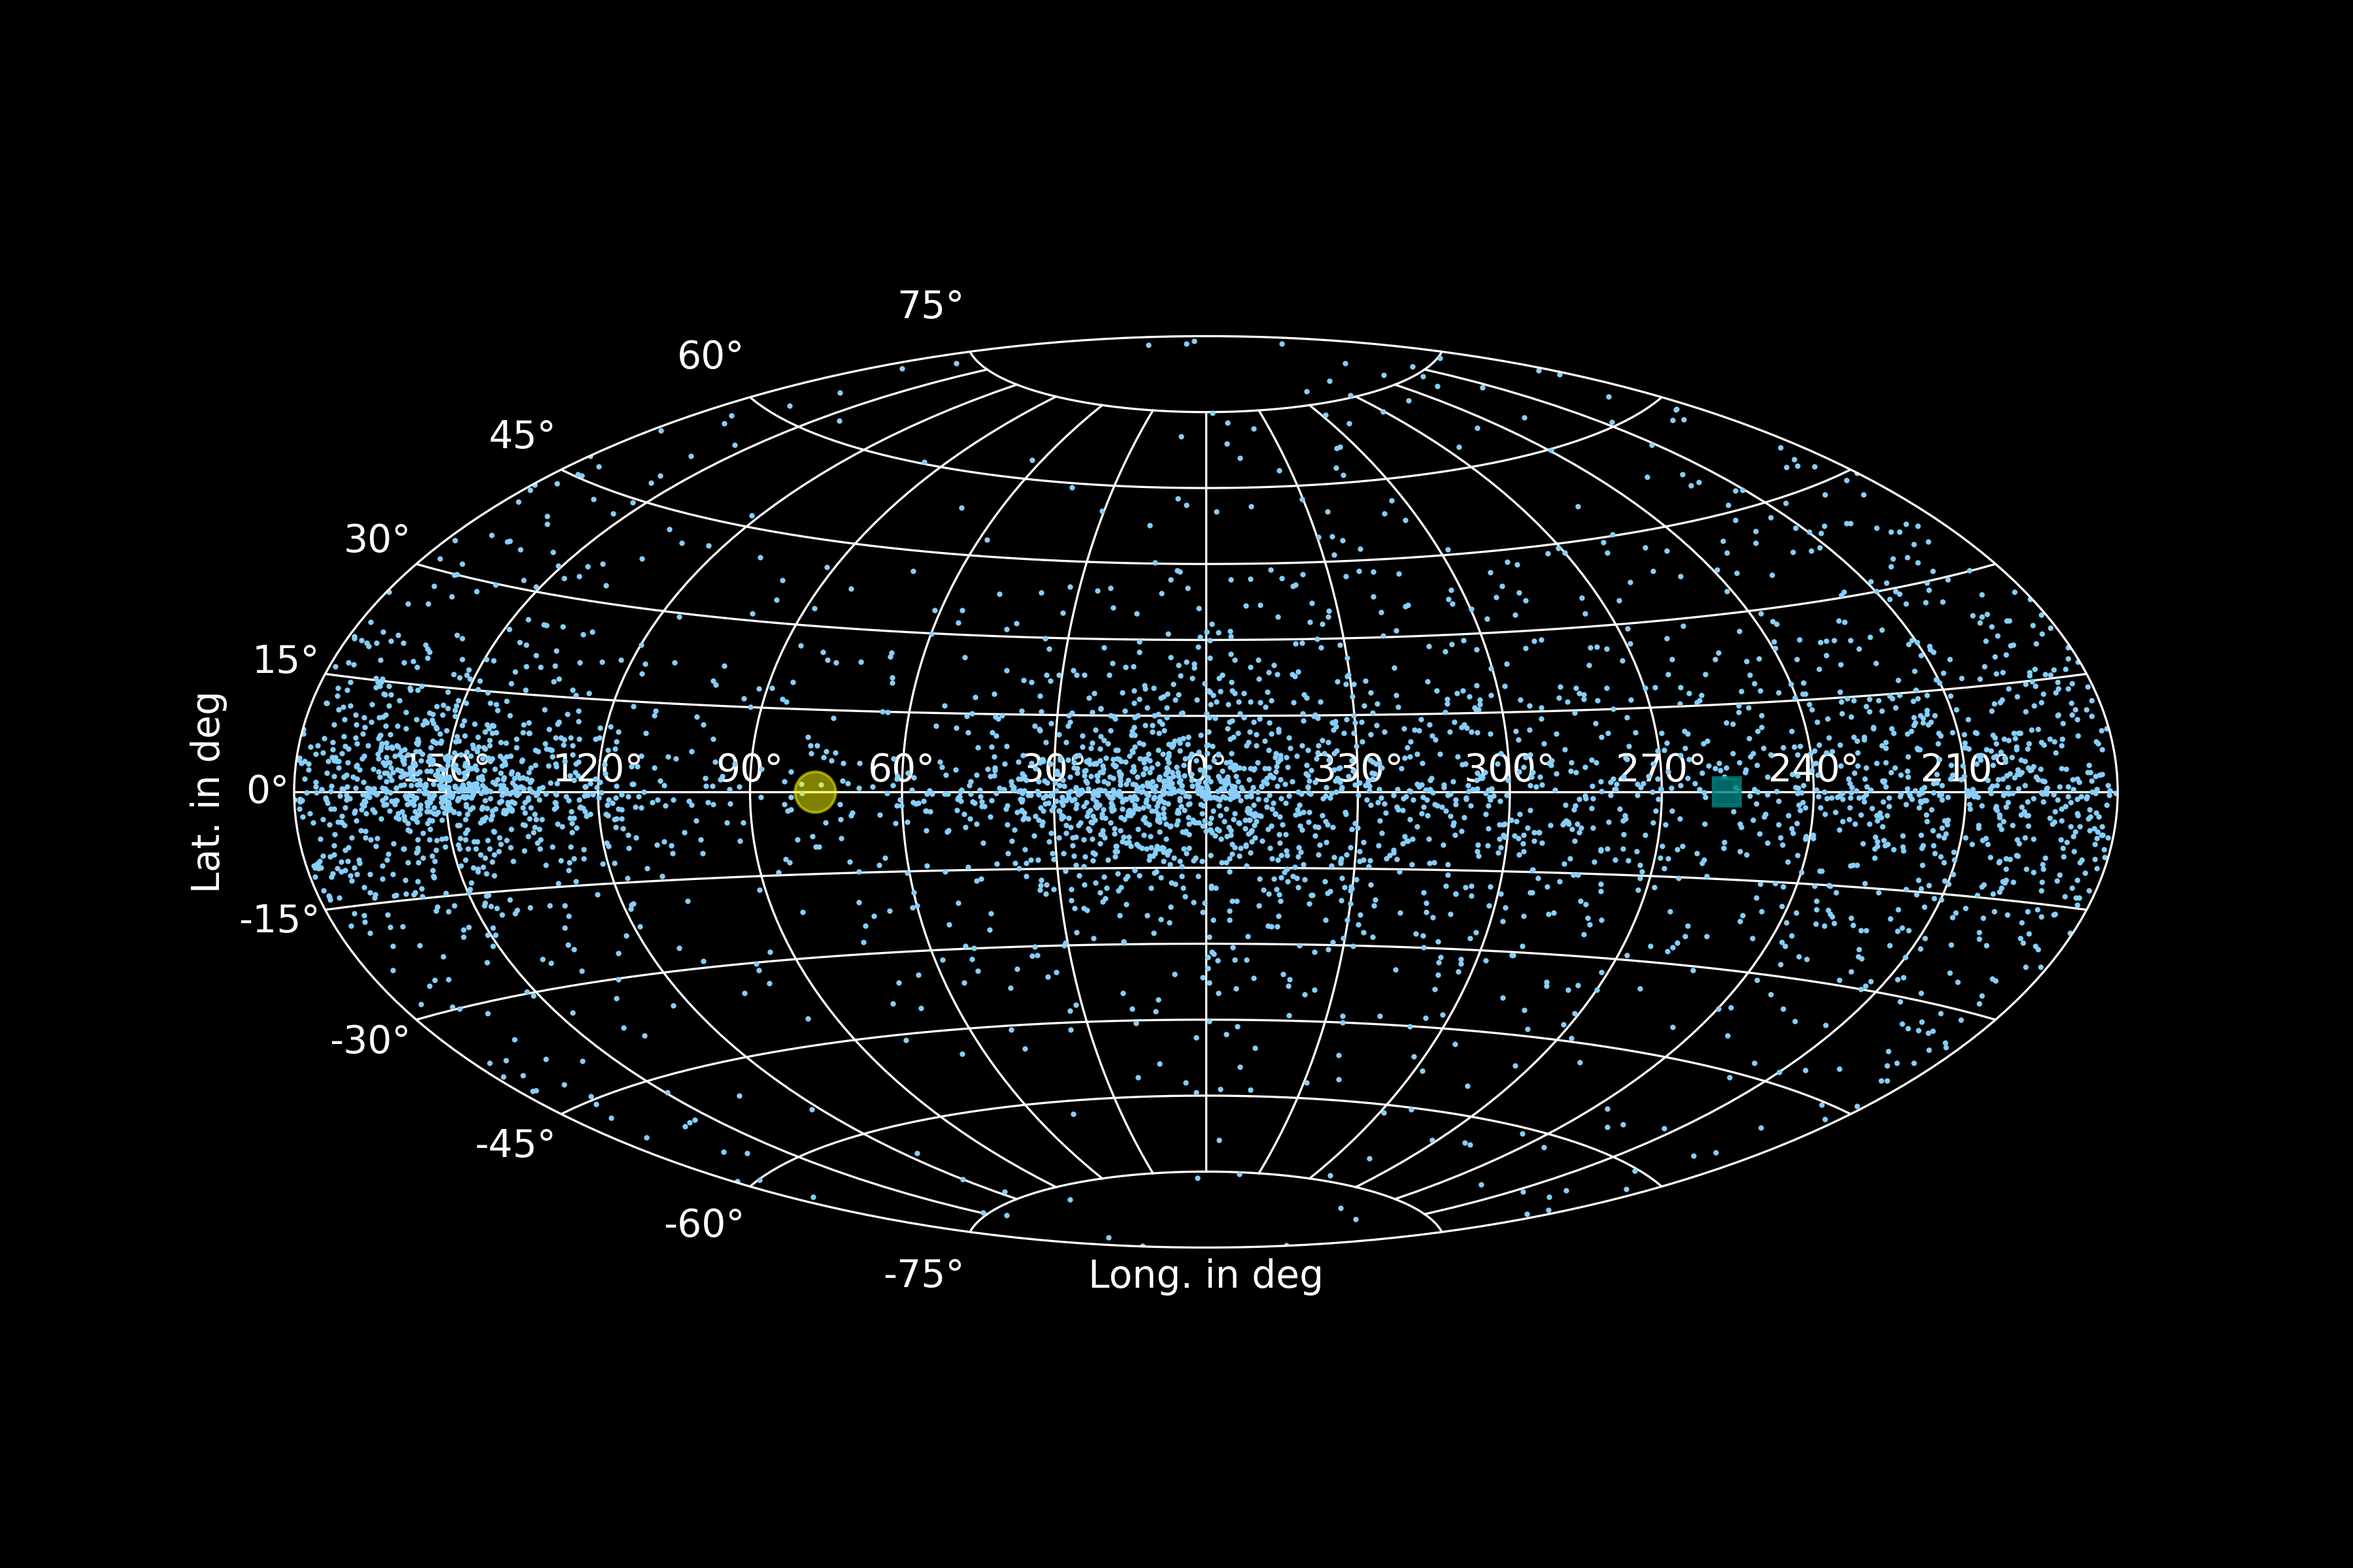
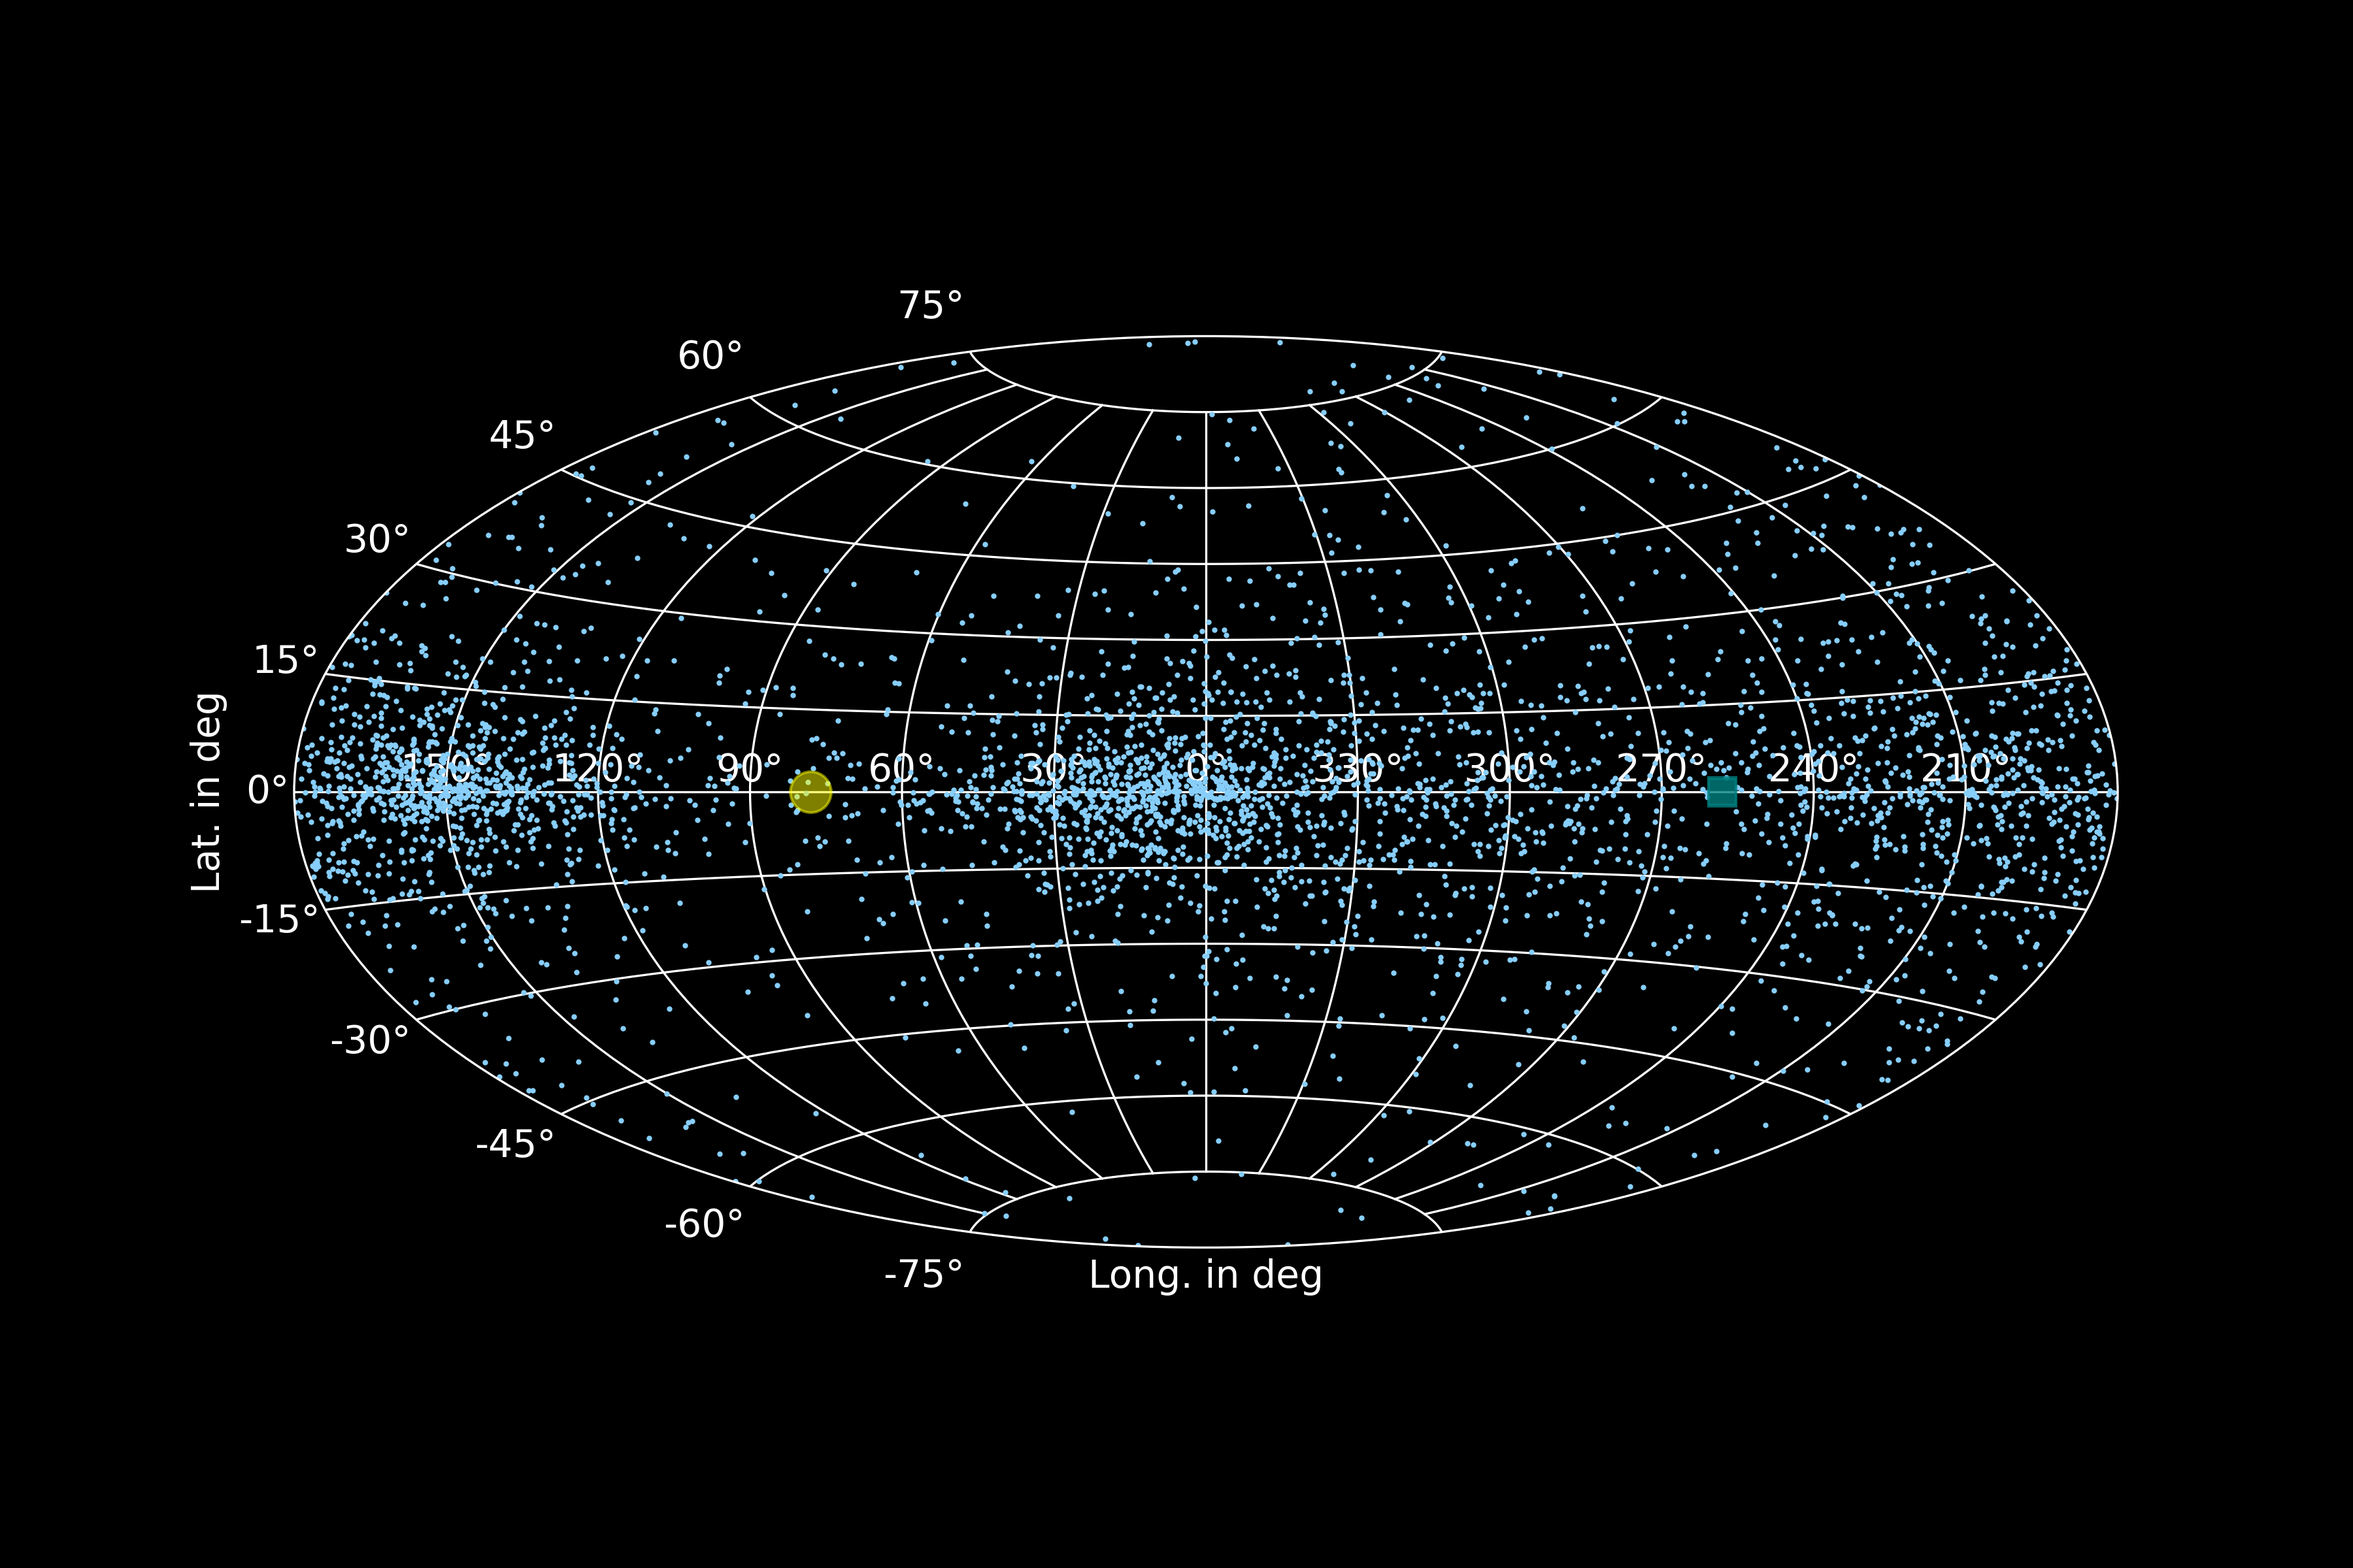
NEOs detection simulation p2

Changed region(s): [[0.1244, 0.375, 0.9022, 0.625], [0.7467, 0.5625, 0.7778, 0.5938]]

diff --git a/11_detection_simulation_analysis.py b/11_detection_simulation_analysis.py
@@ -1,0 +1,171 @@
+# Standard libraries
+import datetime
+import math
+import pathlib
+import sqlite3
+import sys
+
+# Installed libraries
+from matplotlib import pyplot as plt
+import numpy as np
+import pandas as pd
+import spiceypy
+import tqdm
+
+# Auxiliary module that contains the apparent magnitude
+from auxiliary import photometry
+
+# Load the simulation results
+detected_neo_df = pd.read_parquet("results/simulation/UTC2010-01-01_OppDist15.0_MagDetec22.0_StepSize24.0_HourObs21900.0.parquet")
+undetected_neo_df = pd.read_parquet("results/simulation/UNDETECTED_UTC2010-01-01_OppDist15.0_MagDetec22.0_StepSize24.0_HourObs21900.0.parquet")
+
+# Convert the detection time strings to a datetime object
+detected_neo_df.loc[:, "utc_of_detection"] = detected_neo_df["utc_of_detection"].str[:10]
+detected_neo_df.loc[:, "utc_of_detection"] = \
+    detected_neo_df["utc_of_detection"].apply(lambda x: datetime.datetime.strptime(x, "%Y-%m-%d"))
+
+# Compute the detection day (w.r.t. the initial observation datetime)
+detected_neo_df.loc[:, "delta_day_wrt_init"] = \
+    detected_neo_df["utc_of_detection"].apply(lambda x: (x - detected_neo_df["utc_of_detection"].iloc[0]).days)
+
+# Let's set a dark background
+plt.style.use('dark_background')
+
+# Set a default font size for better readability
+plt.rcParams.update({'font.size': 14})
+
+# A cumulative plot that shows how many NEOs we have been detected in our opposition area over
+# time
+fig, ax = plt.subplots(figsize=(12, 8))
+
+# Cumulative histogram in 30 days bins
+ax.hist(detected_neo_df["delta_day_wrt_init"],
+        bins=np.arange(0, np.max(detected_neo_df["delta_day_wrt_init"]) + 30, 30),
+        cumulative=True,
+        color="tab:orange",
+        alpha=.7,
+        rwidth=0.8)
+
+# Formating and layout
+ax.set_xlim(-30, np.max(detected_neo_df["delta_day_wrt_init"]) + 30)
+
+ax.set_title("Detection history of all detected NEOs")
+ax.set_xlabel("Observation range w.r.t. initial date time in days")
+ax.set_ylabel("Number of detected NEOs")
+
+ax.grid(linestyle="--", alpha=0.5)
+
+plt.savefig(f'./images/11/all_detected_NEOs.png', dpi=300)
+
+# Let's take a differentiated look at the size distribution of detected NEOs
+
+# A second, overlapping histogram that show the larger NEOs (upper absolute magnitude limit of
+# e.g., 18
+absmag_limit = 18
+temp_detected_neo_df = detected_neo_df.loc[detected_neo_df["AbsMag_"] <= absmag_limit].copy()
+
+fig, ax = plt.subplots(figsize=(12, 8))
+
+ax.hist(detected_neo_df["delta_day_wrt_init"],
+        bins=np.arange(0, np.max(detected_neo_df["delta_day_wrt_init"]) + 30, 30),
+        cumulative=True,
+        color="tab:orange",
+        alpha=.7,
+        rwidth=0.8,
+        label="All NEOs")
+
+ax.hist(temp_detected_neo_df["delta_day_wrt_init"],
+        bins=np.arange(0, np.max(temp_detected_neo_df["delta_day_wrt_init"]) + 30, 30),
+        cumulative=True,
+        color="purple",
+        alpha=.9,
+        rwidth=0.8,
+        label=fr"NEOs $(H\leq{absmag_limit})$")
+
+# Layout and formatting
+ax.set_xlim(-30, np.max(detected_neo_df["delta_day_wrt_init"])+30)
+
+ax.set_title("Detection history of NEOs")
+ax.set_xlabel("Observation range w.r.t. initial date time in days")
+ax.set_ylabel("Number of detected NEOs")
+
+ax.legend(fancybox=True, loc="upper left")
+ax.grid(linestyle="--", alpha=0.5)
+
+plt.savefig(f'./images/11/all_detected_NEOs_labels.png', dpi=300)
+
+# Here we take a look at the bias of certain elements. We compute the ratio between the
+# detected "bins" and the undetected ones to see, if orbital elements, or magnitude are biased with
+# our simulation setting(s)
+
+# If you want to play around: please go ahead! The default parameters are:
+elem = "AbsMag_"
+bins_range = np.arange(20, 30 + 1, 1)
+step_size = (bins_range[1]-bins_range[0])
+
+# Use numpy to compute the detection ratio
+hist_detec, _ = np.histogram(detected_neo_df[elem], bins=bins_range)
+hist_undetec, bin_edges = np.histogram(undetected_neo_df[elem], bins=bins_range)
+
+hist_ratio = hist_detec / hist_undetec
+hist_ratio = np.nan_to_num(hist_ratio)
+
+fig, ax = plt.subplots(figsize=(12, 8))
+
+plt.bar(bin_edges[:-1] + step_size / 2, hist_ratio, width=step_size, color="tab:orange", alpha=0.7)
+plt.xlim(bins_range[0], bins_range[-1])
+plt.xlabel(f"{elem} in the corresponding dimension")
+plt.ylabel("Detection / Undetection ratio")
+plt.savefig(f'./images/11/detected_undetected_ratio.png', dpi=300)
+
+# We can do the same thing also for the NEO classes!
+detec_classes_df = detected_neo_df.groupby(by="NEOClass").count().reset_index()[["NEOClass", "Name"]]
+detec_classes_df.rename(columns={"Name": "detec_count"}, inplace=True)
+
+undetec_classes_df = undetected_neo_df.groupby(by="NEOClass").count().reset_index()[["NEOClass", "Name"]]
+undetec_classes_df.rename(columns={"Name": "undetec_count"}, inplace=True)
+
+merged_classes_df = pd.merge(detec_classes_df, undetec_classes_df, on="NEOClass")
+merged_classes_df.loc[:, "detec_ratio"] = merged_classes_df["detec_count"] / merged_classes_df["undetec_count"]
+
+print(merged_classes_df)
+
+# Hmmm let's take a look at the distribution of the orbital elements
+
+# And we only consider the smaller NEOs (H >= 25 mag)
+absmag_limit = 25
+
+# We display the detected and undetected NEOs
+temp_detected_neo_df = detected_neo_df.loc[detected_neo_df["AbsMag_"] >= absmag_limit].copy()
+temp_undetected_neo_df = undetected_neo_df.loc[undetected_neo_df["AbsMag_"] >= absmag_limit].copy()
+
+# Additionally, our scatter plot will display the size of the NEOs by scaling the scatter points
+temp_detec_l = (temp_detected_neo_df["AbsMag_"] - temp_detected_neo_df["AbsMag_"].min())
+temp_detec_size = temp_detec_l * 1.0 / (temp_detec_l.max())
+
+temp_undetec_l = (temp_undetected_neo_df["AbsMag_"] - temp_undetected_neo_df["AbsMag_"].min())
+temp_undetec_size = temp_undetec_l * 1.0 / (temp_undetec_l.max())
+
+# And not we plot the results
+fig, ax = plt.subplots(figsize=(20, 8))
+
+ax.scatter(temp_detected_neo_df["Perihel_AU"],
+           temp_detected_neo_df["Ecc_"],
+           s=temp_detec_size * 50,
+           color="white",
+           alpha=0.5,
+           label="Detected NEOs")
+ax.scatter(temp_undetected_neo_df["Perihel_AU"],
+           temp_undetected_neo_df["Ecc_"],
+           s=temp_undetec_size * 50,
+           color="tab:red",
+           alpha=0.5,
+           label="Undetected NEOs")
+
+# Layout and formatting
+plt.xlabel("Perihel in AU")
+plt.ylabel("Eccentricity")
+plt.legend(fancybox=True, loc="lower left")
+plt.xlim(0.2, 1.2)
+
+plt.savefig(f'./images/11/orbital_elements_distribution.png', dpi=300)

diff --git a/10_detection_simulation.py b/10_detection_simulation.py
@@ -4,7 +4,6 @@ import math
 import pathlib
 import sqlite3
 import sys
-import pyarrow
 
 # Installed libraries
 from matplotlib import pyplot as plt
@@ -13,12 +12,8 @@ import pandas as pd
 import spiceypy
 import tqdm
 
-# Append to root directory of this repository
-sys.path.append("./")
-
 # Auxiliary module that contains the apparent magnitude
 from auxiliary import photometry
-
 
 # Accessing the NEO database
 database_dir = pathlib.Path("./databases/neos/")
@@ -57,34 +52,34 @@ neo_df.loc[:, "Epoch_et"] = neo_df["Epoch_JD"].apply(lambda x: spiceypy.utc2et(s
 neo_df = neo_df[neo_df["Perihel_km"] > 0]
 
 # Some simulation parameters (better way: creating a config file for maximum flexibility)
-init_time_utc = "2022-01-01T00:00:00"
+init_time_utc = "2010-01-01T00:00:00"
 init_time_et = spiceypy.utc2et(init_time_utc)
 
 # "Circle" around the opposition that is the detection area (in degrees)
 opp_range = 15.0
 
 # Minimum detection threshold (in magnitude)
-mag_detec = 26.0
+mag_detec = 22.0
 
 # Dataframe that stores the results
 detected_neo_df = pd.DataFrame([])
 
-# Simulation steps in seconds
-time_step_size = 3600.0
+# Simulation steps in hours
+obs_steps = 24.0
 
-# Observation hour range in hours
-obs_range = 8.0
+# Observation range in hours
+obs_range = 2.5 * 365.0 * 24.0
 
 # Simulation loop. For better efficiency this can be done asynchronously
-for time_step_h in tqdm.tqdm(np.arange(0, obs_range, 1)):
+for time_step_h in tqdm.tqdm(np.arange(0, obs_range, 24.0)):
 
     # Computation time
-    init_time_et += time_step_size
-    neo_df.loc[:, "et_of_detection"] = init_time_et
+    _time_et = init_time_et + (time_step_h * 3600.0)
+    neo_df.loc[:, "et_of_detection"] = _time_et
 
     # Position vector of the Earth as seen from the Sun
     sun2earth_position_vec = spiceypy.spkgps(targ=399,
-                                             et=init_time_et,
+                                             et=_time_et,
                                              ref="ECLIPJ2000",
                                              obs=10)[0]
     earth2sun_position_vec = -1.0 * sun2earth_position_vec
@@ -99,7 +94,7 @@ for time_step_h in tqdm.tqdm(np.arange(0, obs_range, 1)):
                                                      x["MeanAnom_rad"],
                                                      x["Epoch_et"],
                                                      gm_sun],
-                                               et=init_time_et)[:3],
+                                               et=_time_et)[:3],
                      axis=1)
 
     # To compute the apparent magnitude we need to re-compute the positional vectors and convert it
@@ -142,8 +137,6 @@ for time_step_h in tqdm.tqdm(np.arange(0, obs_range, 1)):
     if len(neo_df) == 0:
         break
 
-    print(f"Time step: {time_step_h} Number of detected NEOs: {detected_neo_df.shape[0]}")
-
 # Convert the ET detection time to a human-readable format
 detected_neo_df.loc[:, "utc_of_detection"] = \
     detected_neo_df["et_of_detection"].apply(lambda x: spiceypy.et2utc(x, "ISOC", 0))
@@ -162,10 +155,30 @@ detected_neo_df = detected_neo_df[['Name',
                                    'utc_of_detection']].copy()
 
 # Store the results in a parquet file
-pathlib.Path("results/10").mkdir(parents=True, exist_ok=True)
-detected_neo_df.to_parquet(f"results/10/"
+pathlib.Path("results/simulation").mkdir(parents=True, exist_ok=True)
+detected_neo_df.to_parquet(f"results/simulation/"
                            + f"UTC{init_time_utc.split("T")[0]}"
                            + f"_OppDist{opp_range}"
                            + f"_MagDetec{mag_detec}"
-                           + f"_StepSize{time_step_size}"
+                           + f"_StepSize{obs_steps}"
                            + f"_HourObs{obs_range}.parquet")
+
+# We also store the undetected NEOs (for the sake of completion)
+undetected_neo_df = neo_df[['Name',
+                                   'SemMajAxis_AU',
+                                   'Ecc_',
+                                   'Incl_deg',
+                                   'LongAscNode_deg',
+                                   'ArgP_deg',
+                                   'AbsMag_',
+                                   'SlopeParamG_',
+                                   'Aphel_AU',
+                                   'Perihel_AU',
+                                   'NEOClass']].copy()
+
+undetected_neo_df.to_parquet(f"results/simulation/"
+                             + f"UNDETECTED_UTC{init_time_utc.split("T")[0]}"
+                             + f"_OppDist{opp_range}"
+                             + f"_MagDetec{mag_detec}"
+                             + f"_StepSize{obs_steps}"
+                             + f"_HourObs{obs_range}.parquet")
